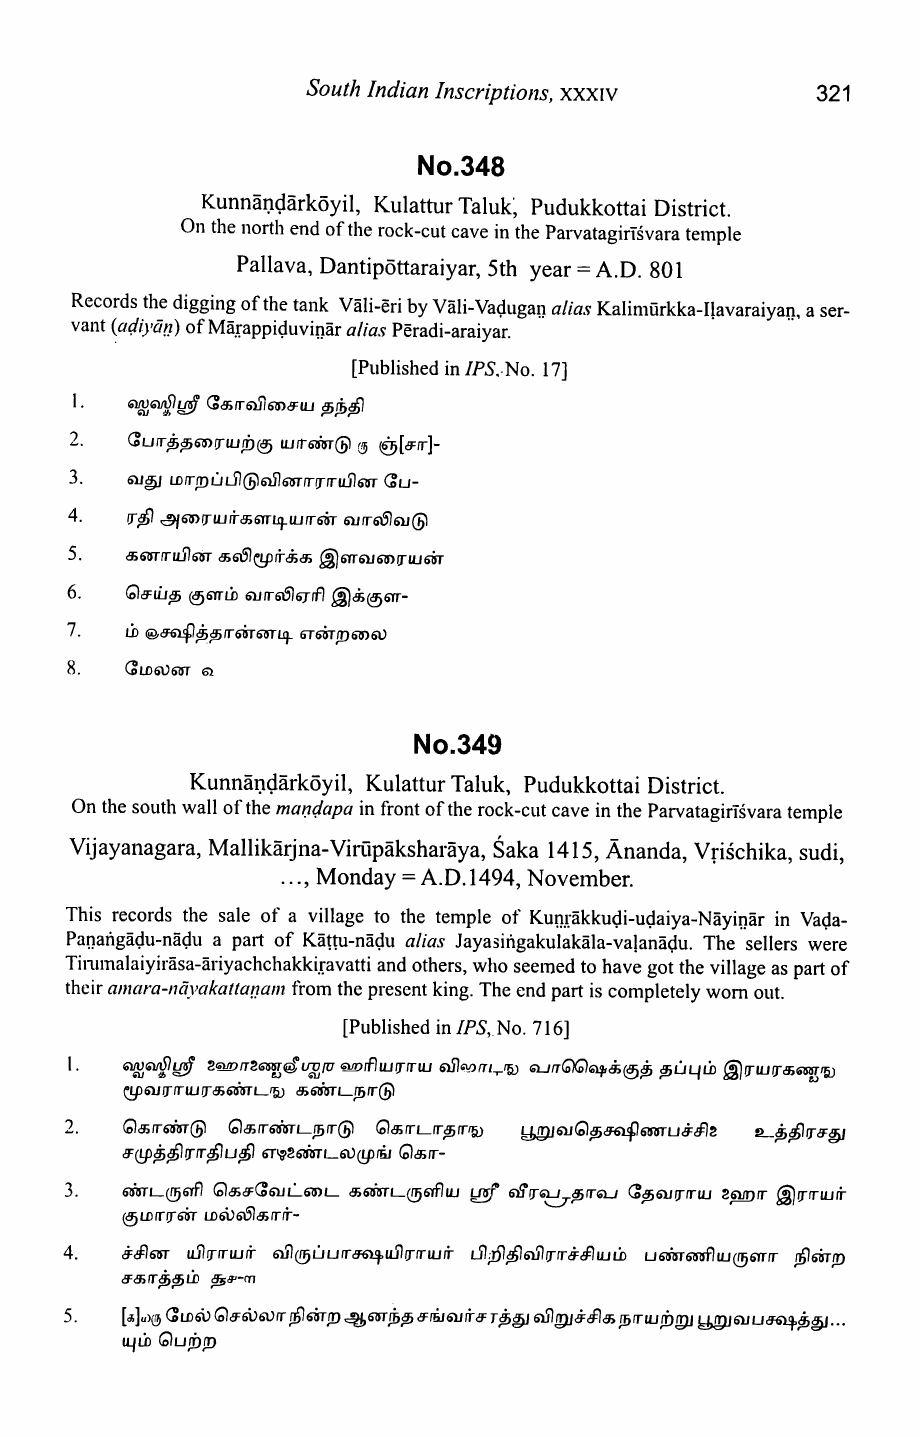
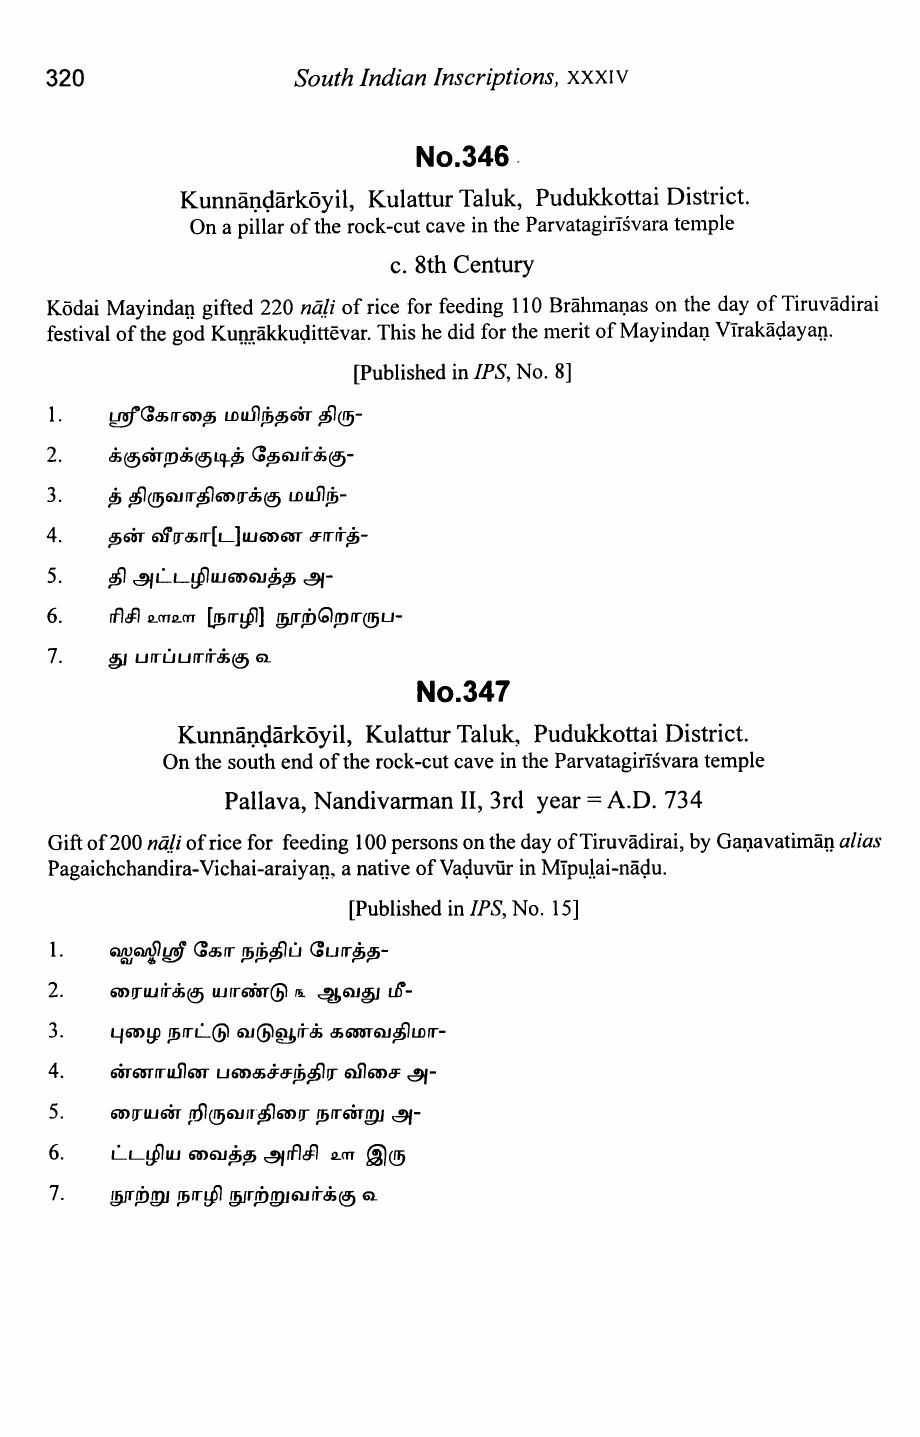
SII: re-render Vol XXXIV's 3 page images, correcting the off-by-one
See the paired main-repo commit -- the live PDF file is missing a
leading page, which was shifting every rendered page image one page
out of alignment with the record it's attached to.

diff --git a/Sanjay/SII-Inscriptions.html b/Sanjay/SII-Inscriptions.html
@@ -546,7 +546,7 @@
   <h1><a href="index.html" class="home-link" title="Home">&#8962;</a> SII Inscriptions (Gen-2 complete volumes)</h1>
   <a href="ARE-Inscriptions.html" class="cross-link">ARE Inscriptions →</a>
 </div>
-<div class="generated">Generated 2026-10-03 07:12</div>
+<div class="generated">Generated 2026-10-03 07:24</div>
 <div class="whats-new"><strong>What's new:</strong> filters are now multi-select (checkbox lists with an Include/Exclude toggle) and narrow each other as you pick values; a "Blank / not available" option appears wherever a field is genuinely missing on some records; the ID column now shows a tag icon (hover or tap it for the full ID — copy-to-clipboard still works the same way); and only a curated set of columns shows by default, with Remarks given at least half the table's width and any column you filter on shown automatically. Not yet on the public page pending review.</div>
 <div class="stats">15696 records from 44 volume(s)/part(s) at 100% Gen-2 OCR (a volume mid-migration is excluded whole, not shown with a quality gradient row to row — see the script's own docstring). See <a href="../Sources.html#sii">Sources</a> for where each volume came from. Language is shown but always empty for now — not yet parsed from vernacular text.</div>
 <div class="legend"><strong>Reading the colors</strong> (Location, Dynasty): plain text is <span class="v-direct">as printed</span> in the volume; italic amber text is <span class="v-derived">derived</span> — resolved some other way (map-matching, an index cross-reference) rather than printed at that exact spot. Hover either to see exactly where it came from.<br><strong>Location vs. Place/Source</strong>: Place/Source is the find-spot exactly as the volume printed it — often structural ("ON THE SOUTH WALL OF THE SAME TEMPLE"), not geographic. Location is the actual place on a map that find-spot resolves to. Example: a record's Place/Source might read "SAME TALUK" (referring back to an earlier record's find-spot) while its Location resolves to "NARASAPUR TALUK, KISTNA DISTRICT" — Place/Source says what the volume printed, Location says where that actually is.<br><strong>Citations</strong>: "Ibid."-style cross-references in Remarks have been resolved to their full citation — 99% of records that mention one (266 of 269, as of this build); the rest cite a different publication entirely (e.g. "A.R.Ep., 1914" or "Ind. Ant., Vol. XIX"), not another SII record, so there is nothing here for them to resolve to. The underlined word carries the full citation as a hover tooltip.</div>

diff --git a/SII-Inscriptions.html b/SII-Inscriptions.html
@@ -554,7 +554,7 @@
   <h1><a href="index.html" class="home-link" title="Home">&#8962;</a> SII Inscriptions</h1>
   <a href="https://forms.gle/wBaX1GV6FXheZdQU8" target="_blank" rel="noopener" class="subscribe-btn" id="subscribeLink">Subscribe</a>
 </div>
-<div class="generated">Generated 2026-10-03 07:12</div>
+<div class="generated">Generated 2026-10-03 07:24</div>
 
 <div class="stats">15696 records from 44 volume(s)/part(s) at 100% Gen-2 OCR. See <a href="Sources.html#sii">Sources</a> for where each volume came from. Some records have a page image available to view alongside their transcription.</div>
 <div class="legend"><strong>Reading the colors</strong> (Location, Dynasty): plain text is <span class="v-direct">as printed</span> in the volume; italic amber text is <span class="v-derived">derived</span> — resolved some other way (map-matching, an index cross-reference) rather than printed at that exact spot. Hover either to see exactly where it came from.<br><strong>Location vs. Place/Source</strong>: Place/Source is the find-spot exactly as the volume printed it — often structural ("ON THE SOUTH WALL OF THE SAME TEMPLE"), not geographic. Location is the actual place on a map that find-spot resolves to. Example: a record's Place/Source might read "SAME TALUK" (referring back to an earlier record's find-spot) while its Location resolves to "NARASAPUR TALUK, KISTNA DISTRICT" — Place/Source says what the volume printed, Location says where that actually is.<br><strong>Citations</strong>: "Ibid."-style cross-references in Remarks have been resolved to their full citation — 99% of records that mention one (266 of 269, as of this build); the rest cite a different publication entirely (e.g. "A.R.Ep., 1914" or "Ind. Ant., Vol. XIX"), not another SII record, so there is nothing here for them to resolve to. The underlined word carries the full citation as a hover tooltip.</div>
